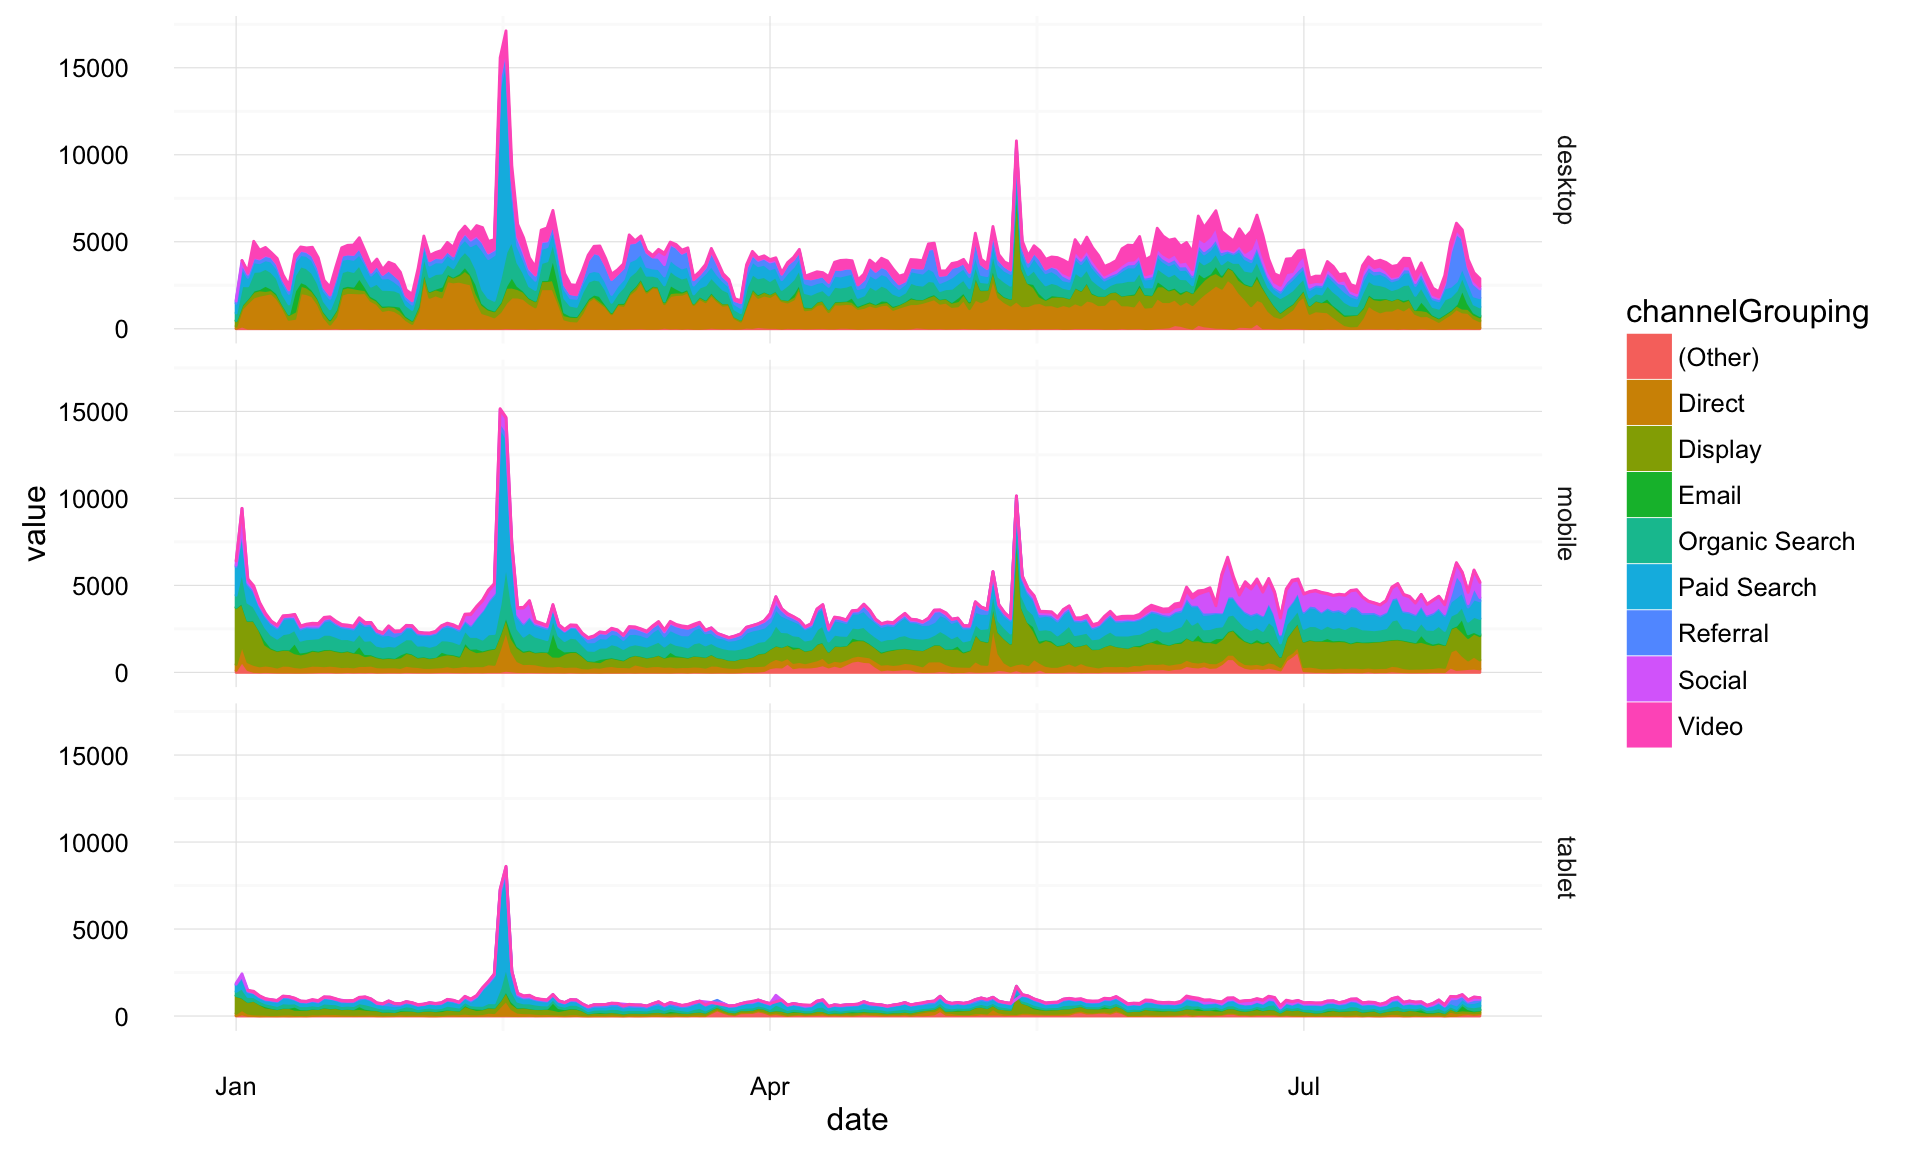
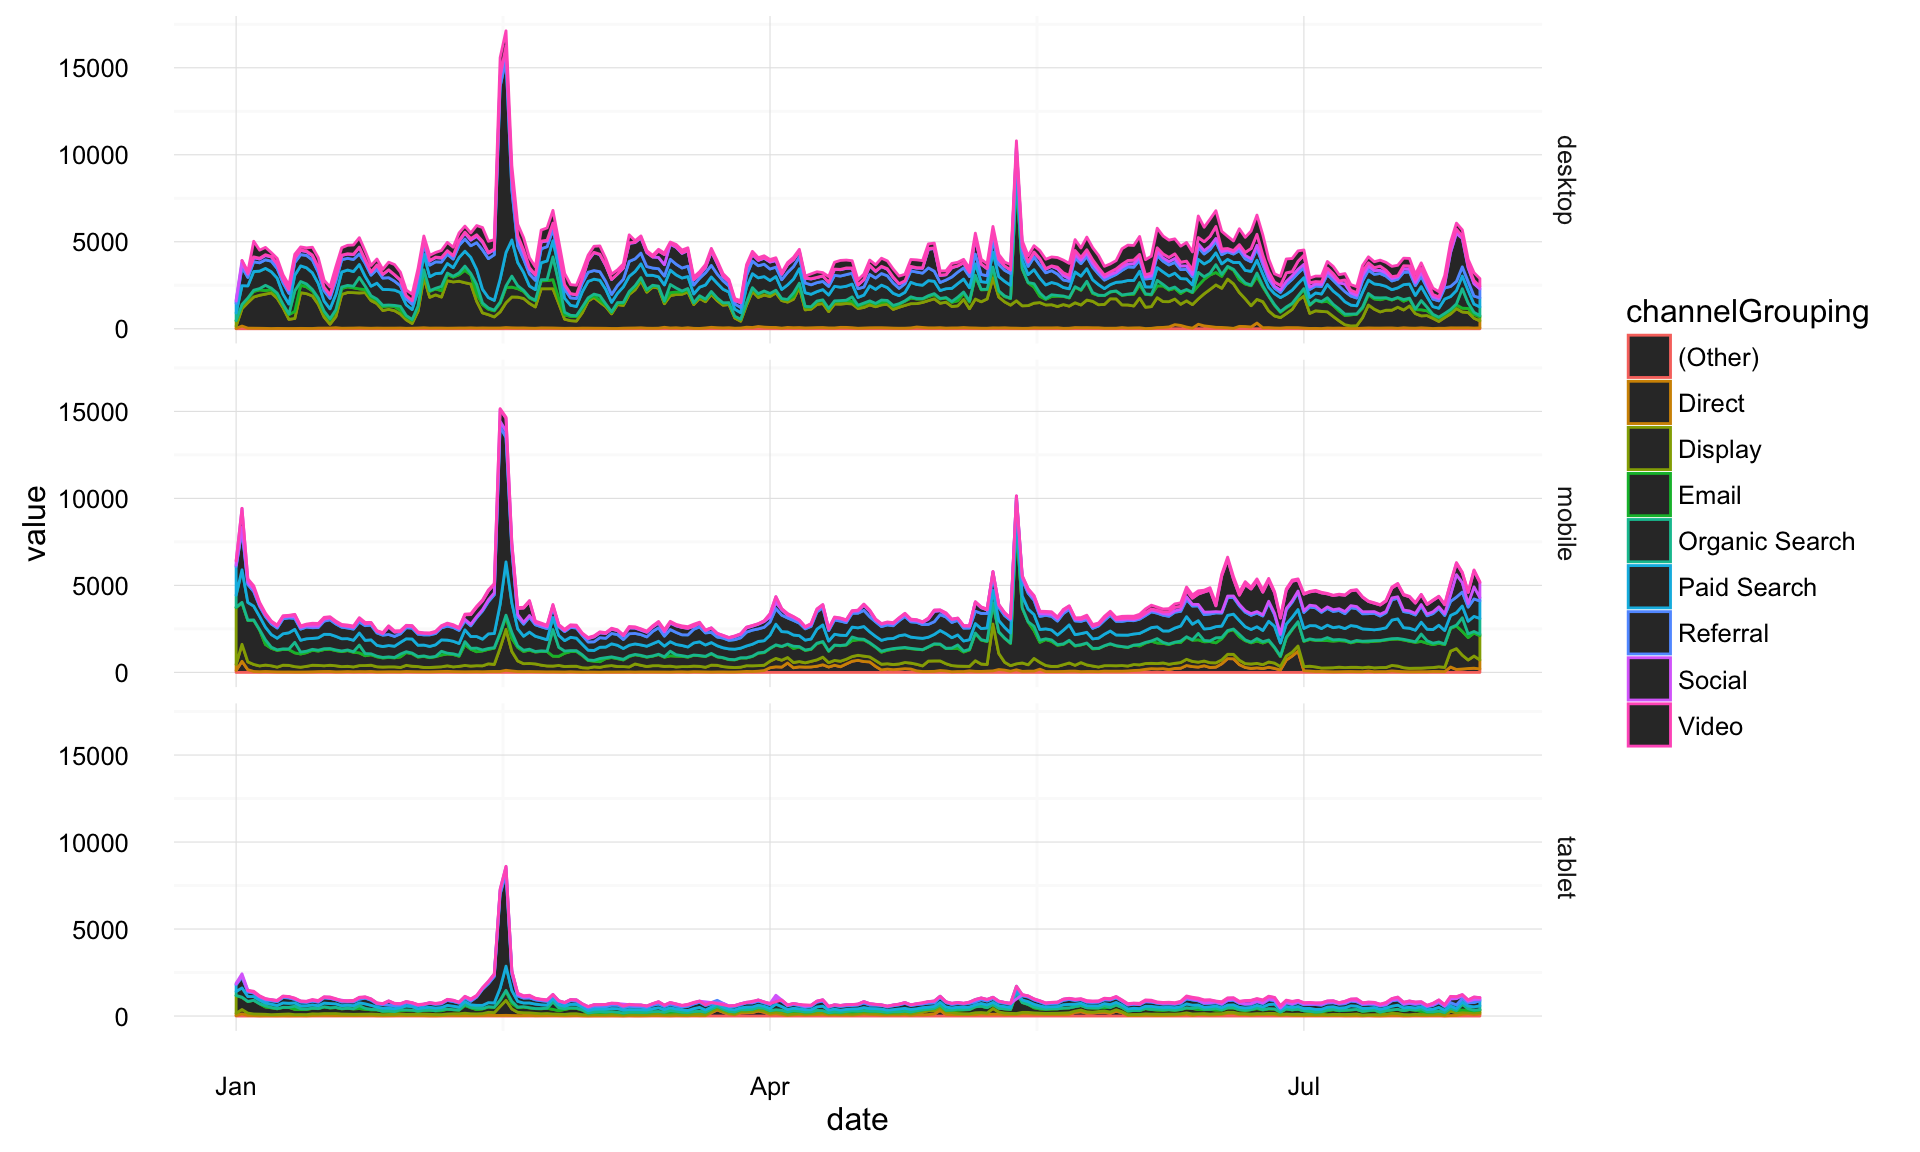
small edits and ggplot2 clearer flow

diff --git a/import-csv-excel.html b/import-csv-excel.html
@@ -11,7 +11,7 @@
 
 
 
-<title>Importing data - Excel and CSV</title>
+<title>Importing data - CSV</title>
 
 <script src="site_libs/jquery-1.11.3/jquery.min.js"></script>
 <meta name="viewport" content="width=device-width, initial-scale=1" />
@@ -373,7 +373,7 @@ j=d.createElement(s),dl=l!='dataLayer'?'&l='+l:'';j.async=true;j.src=
 
 
 
-<h1 class="title toc-ignore">Importing data - Excel and CSV</h1>
+<h1 class="title toc-ignore">Importing data - CSV</h1>
 
 </div>
 
@@ -430,40 +430,6 @@ head(mydata)
 4 2015-01-04      8   75.00000
 5 2015-01-05     21   76.19048
 6 2015-01-06     20   95.00000</code></pre>
-</div>
-</div>
-<div id="importing-excel" class="section level2">
-<h2>Importing Excel</h2>
-<p>Importing from Excel can be problematic, as its not a fixed format. For example, a Danish workbook can hold different date and currency formats and use characters (ø, å etc.) that aren’t available. Here are a few strategies:</p>
-<div id="import-a-csv-instead" class="section level3">
-<h3>Import a csv instead</h3>
-<p>By far the most simple and reliable way for tabular Excel data is to avoid importing it at all, and instead save your worksheet as a <code>.csv</code>.</p>
-<p>In Excel, this is achieved by clicking <code>File &gt; Save As</code> and selecting the CSV format.</p>
-<p>You can then import this to R via <code>read.csv()</code>.</p>
-</div>
-<div id="import-using-rstudios-import-dataset" class="section level3">
-<h3>Import using RStudio’s Import Dataset</h3>
-<p>The second easiest option is to use the <code>Import Dataset</code> button in the <code>Environment</code> tab of RStudio. In the latest versions of RStudio this calls <code>library(readxl)</code> to import the Excel data in for you.</p>
-</div>
-<div id="libraryreadxl" class="section level3">
-<h3>library(readxl)</h3>
-<p>If you have an older version of RStudio or importing non-interactivly via a script, you can call <code>library(readxl)</code> yourself once installed. This Hadley Wickham library has presets to handle Excel data for you. There are other libraries out there to read from Excel, but some require Java or similar to work. <code>readxl</code> is the best and quickest one the author has found so far.</p>
-</div>
-</div>
-<div id="exporting-to-excel" class="section level2">
-<h2>Exporting to Excel</h2>
-<p>Note none of the above lets you write or save files to Excel - the author would prefer you use one of R’s superior formats instead. ;-)</p>
-<p>But if you need it, then there are some options:</p>
-<div id="import-a-csv-into-excel" class="section level3">
-<h3>Import a csv into Excel</h3>
-<p>This is the one used the most - export as a CSV then use Excel’s <code>Import Data</code> option in the top ribbon to import the file. Set the delimiter to “,” or “;” as necessary, and you are good to go.</p>
-</div>
-<div id="use-a-write-to-excel-library" class="section level3">
-<h3>Use a write to Excel library</h3>
-<p>There are other options to write to Excel using R libraries:</p>
-<pre class="r"><code>## need to install Java
-library(xlsx)
-write.xlsx(mydata, &quot;c:/mydata.xlsx&quot;) </code></pre>
 </div>
 </div>
 

diff --git a/ggplot2.html b/ggplot2.html
@@ -548,18 +548,21 @@ gg + geom_line(aes(colour = channelGrouping))</code></pre>
 <pre class="r"><code>## we have desktop, mobile and tablet all in there, lets seperate them out with facet
 gg + geom_line(aes(colour = channelGrouping)) + facet_grid(. ~ deviceCategory)</code></pre>
 <p><img src="ggplot2_files/figure-html/unnamed-chunk-4-3.png" width="960" /></p>
-<pre class="r"><code>## I prefer it one other the other
+<pre class="r"><code>## I prefer it one over the other
 gg + geom_line(aes(colour = channelGrouping)) + facet_grid(deviceCategory ~ .)</code></pre>
 <p><img src="ggplot2_files/figure-html/unnamed-chunk-4-4.png" width="960" /></p>
 <pre class="r"><code>## lets try an area plot
-gg + geom_area(aes(colour = channelGrouping, group = channelGrouping, fill = channelGrouping)) + facet_grid(deviceCategory ~ .)</code></pre>
+gg + geom_area(aes(colour = channelGrouping, group = channelGrouping)) + facet_grid(deviceCategory ~ .)</code></pre>
 <p><img src="ggplot2_files/figure-html/unnamed-chunk-4-5.png" width="960" /></p>
+<pre class="r"><code>## ahh, area plots colour by scale &#39;fill&#39; rather than scale &#39;colour&#39; (see ?geom_area)
+gg + geom_area(aes(fill = channelGrouping, group = channelGrouping)) + facet_grid(deviceCategory ~ .)</code></pre>
+<p><img src="ggplot2_files/figure-html/unnamed-chunk-4-6.png" width="960" /></p>
 <pre class="r"><code>## ok, lets keep that for now
 gg &lt;- gg + geom_area(aes(group = channelGrouping, fill = channelGrouping)) + facet_grid(deviceCategory ~ .)</code></pre>
 <p>The point above is to show how modifications can be quickly added as you try out ideas.</p>
 <p>A little more styling, and we are done with this example:</p>
 <pre class="r"><code>## make the colours nicer
-gg &lt;- gg + scale_fill_brewer(palette = &quot;Paired&quot;)
+gg &lt;- gg + scale_fill_brewer(palette = &quot;Blues&quot;)
 ## add a title
 gg &lt;- gg + ggtitle(&quot;Sessions per device category&quot;)
 ## rename the x and y axis
